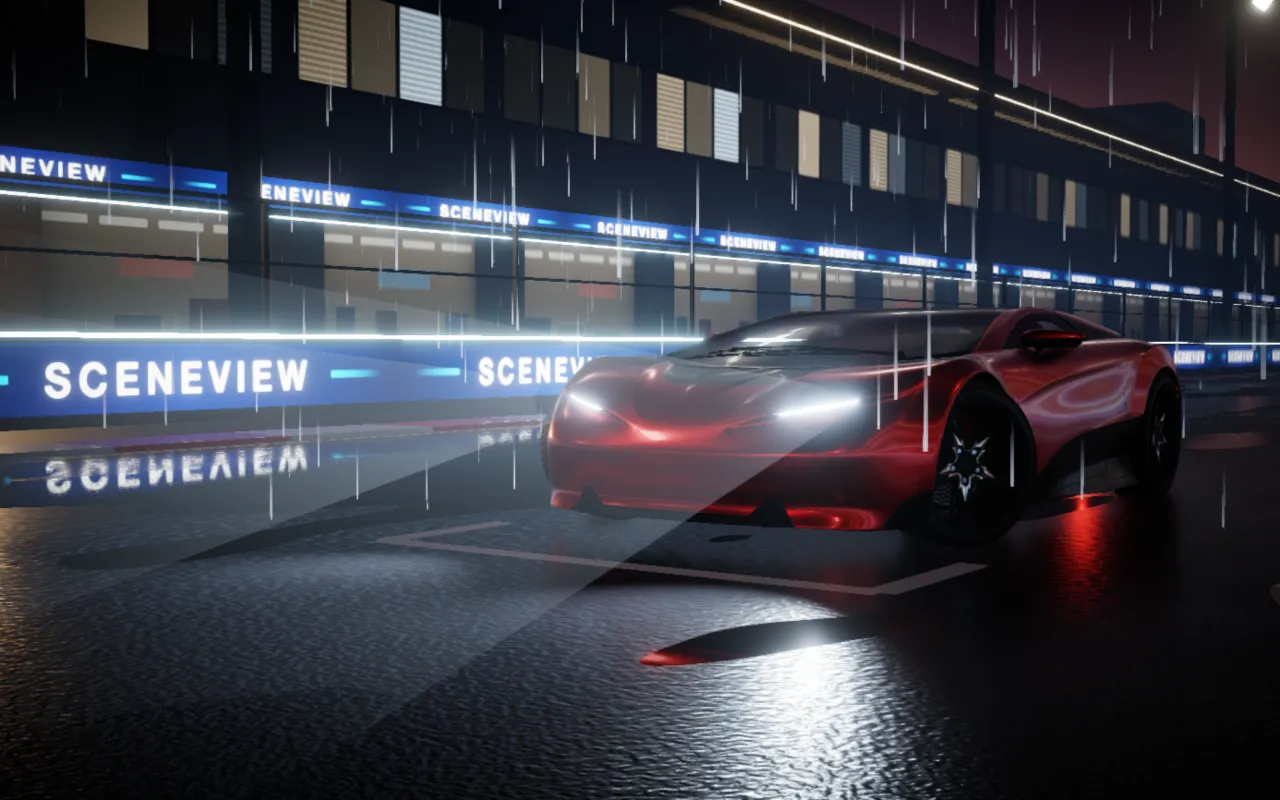
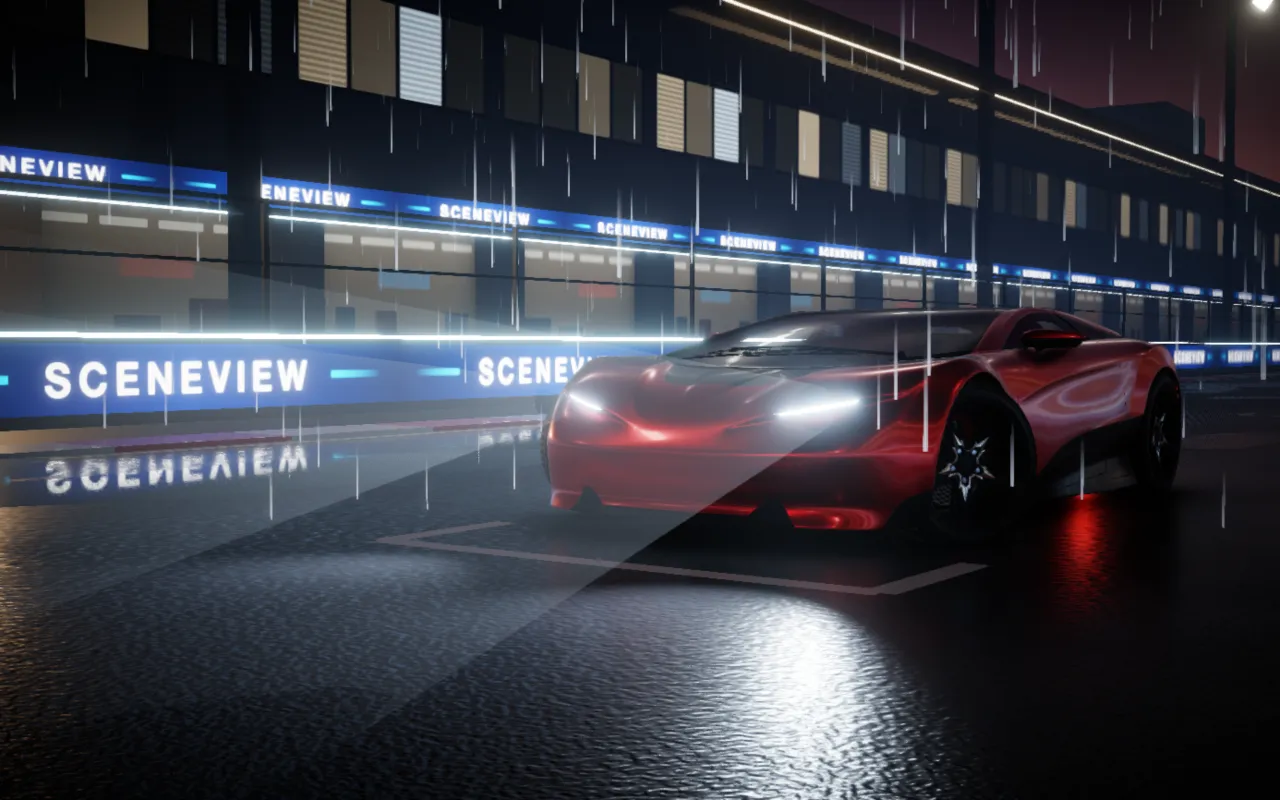
site: ground the night-circuit car and calm the standing water
Without screen-space reflections (tiers 0-2, the default everywhere) the
standing water only reflects the environment map, which never contains the
car: under the body it mirrored the sky and the pit wall, so the tyres stood
on a bright strip and the car read as floating. Measured, the tyres do touch
the asphalt (lowest vertex -0.2 mm to +1.2 mm, road at 0, water at 6 mm).

- Contact shadow baked from the car's geometry: a top-down height field on a
  2 cm grid, occlusion at three scales (tyre patches, underbody, soft skirt),
  drawn as one unlit blended quad over the asphalt and the water.
- The grid box is kept dry: the puddle mask fades out around the car.
- Water roughness 0.03 -> 0.16: at 0.03 each texel of the 256-px environment
  map came out as a blurred block of floodlight on the road near the camera.
- Hero posters re-rendered from the new scene.

NightCircuit.glb e36f8a9a... registered and uploaded to assets-v1; the
previous blob stays. Desktop tier 2 fps unchanged (median 48 before, 50
after, interleaved 4 x 5 s at 1280x800).

diff --git a/changelog.d/4568-home-night-circuit-showpiece.md b/changelog.d/4568-home-night-circuit-showpiece.md
@@ -1,2 +1,2 @@
 <!-- category: Changed -->
-- **Website: the home hero is a night circuit, rendered live ([#4568](https://github.com/sceneview/sceneview/pull/4568)).** The Khronos Car Concept (CC BY 4.0) sits on the wet start grid of a circuit at night — floodlit stands, pit neon, standing water, fine rain, the headlights' cones in the haze — one GLB and its own environment map, rendered by SceneView Web with lights, bloom, fog, screen-space reflections and vignette set through the public API. A 14 s one-take camera move plays once the scene is live: the gantry counts down, lights out, two flashes of the high beams, the brake lights as the camera passes the tail, a beacon on the tower, a pit sign that flickers before it holds; a drag takes over at any time, `prefers-reduced-motion` keeps the poster pose. A quality ladder (pixel budget, shadows, reflections) steps down a rung by itself when frames come in late, and starts one rung lower on a phone. The picture is a night in both themes (`.night`, DESIGN.md). The web viewer gains `setLight`, `setMaterial` / `getMaterialNames`, `setPixelBudget` and an object form of `setQuality` (`{ ambientOcclusion, antiAliasing }`).
+- **Website: the home hero is a night circuit, rendered live ([#4568](https://github.com/sceneview/sceneview/pull/4568)).** The Khronos Car Concept (CC BY 4.0) sits on the wet start grid of a circuit at night — floodlit stands, pit neon, standing water, fine rain, the headlights' cones in the haze — one GLB and its own environment map, rendered by SceneView Web with lights, bloom, fog, screen-space reflections and vignette set through the public API. A 14 s one-take camera move plays once the scene is live: the gantry counts down, lights out, two flashes of the high beams, the brake lights as the camera passes the tail, a beacon on the tower, a pit sign that flickers before it holds; a drag takes over at any time, `prefers-reduced-motion` keeps the poster pose. A quality ladder (pixel budget, shadows, reflections) steps down a rung by itself when frames come in late, and starts one rung lower on a phone. The picture is a night in both themes (`.night`, DESIGN.md). The web viewer gains `setLight`, `setMaterial` / `getMaterialNames`, `setPixelBudget` and an object form of `setQuality` (`{ ambientOcclusion, antiAliasing }`). The car stands on the road: a contact shadow baked from its own geometry darkens the ground and the water's reflection under it, the grid box stays dry, and the standing water is glossy rather than a mirror, so the low-resolution environment map no longer shows as blurred squares of floodlight near the camera.
